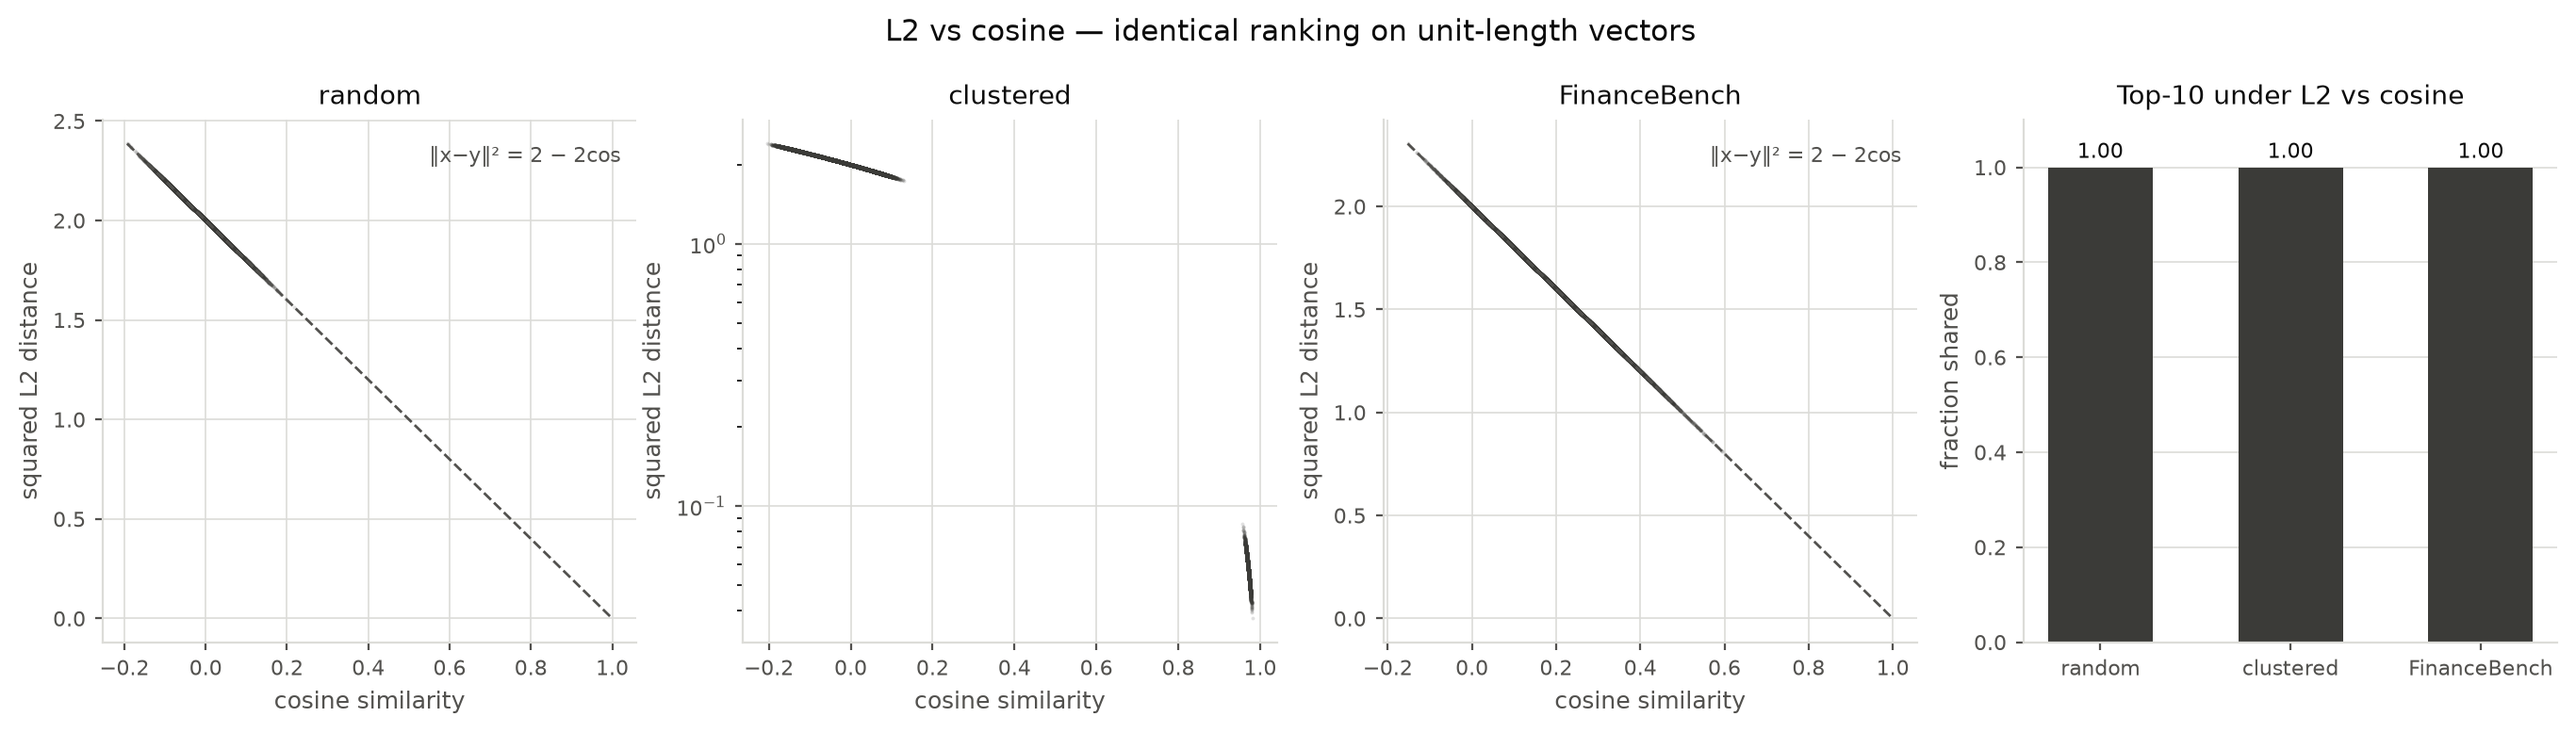
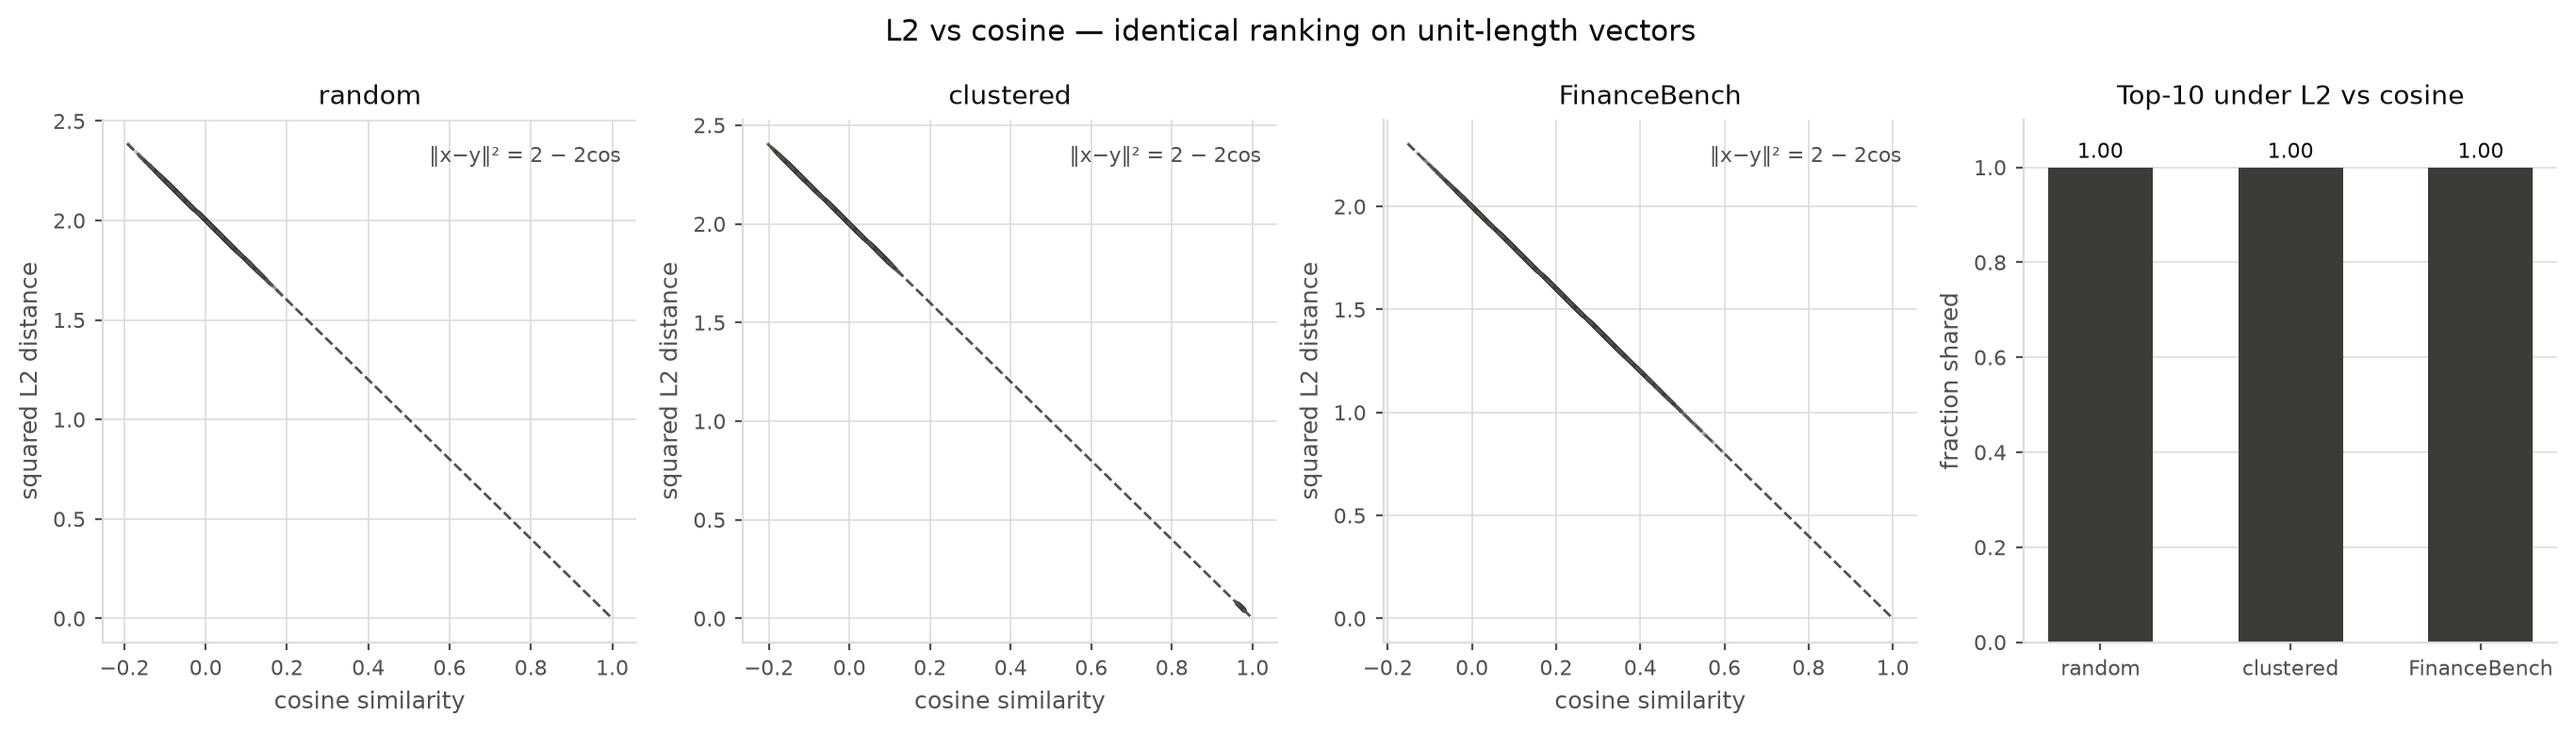
fix eda5 clustered panel

diff --git a/src/py/eda.py b/src/py/eda.py
@@ -199,8 +199,8 @@ def plot_intrinsic_dimension(data):
 
 def plot_metric_comparison(data):
     """
-    L2 vs cosine on the raw vectors. Left: L2 distance against cosine similarity for
-    query-database pairs; unit-norm data falls on the curve ||x-y||^2 = 2 - 2cos.
+    L2 vs cosine on the vectors as indexed. Left: L2 distance against cosine similarity for
+    query-database pairs; unit-length data falls on the line ||x-y||^2 = 2 - 2cos.
     Right: overlap between the top-10 neighbours chosen by each metric
     """
     names = list(data)
@@ -221,15 +221,12 @@ def plot_metric_comparison(data):
         pick = rng.choice(xb.shape[0], size=300, replace=False)  # 300 random database points per query
         ax.scatter(cos[:, pick].ravel(), l2[:, pick].ravel(), s=2, color=DARK, alpha=0.15, linewidths=0)
 
-        if name != "clustered":  # the identity only holds for unit vectors
-            c = np.linspace(cos[:, pick].min(), 1, 100)
-            ax.plot(c, 2 - 2 * c, color=INK_MUTED, linewidth=1, linestyle="--")
-            ax.text(0.97, 0.95, "‖x−y‖² = 2 − 2cos", transform=ax.transAxes, ha="right", va="top",
-                    fontsize=8, color=INK_MUTED)
+        c = np.linspace(cos[:, pick].min(), 1, 100)  # every dataset is unit length, so every panel follows this line
+        ax.plot(c, 2 - 2 * c, color=INK_MUTED, linewidth=1, linestyle="--")
+        ax.text(0.97, 0.95, "‖x−y‖² = 2 − 2cos", transform=ax.transAxes, ha="right", va="top",
+                fontsize=8, color=INK_MUTED)
 
         style_axes(ax, "cosine similarity", "squared L2 distance", LABEL[name])
-        if name == "clustered":  # distances span several orders of magnitude, a log axis shows both groups
-            ax.set_yscale("log")
 
     ax = axes[-1]
     bars = ax.bar([LABEL[n] for n in names], [overlaps[n] for n in names], color=DARK, width=0.55)
